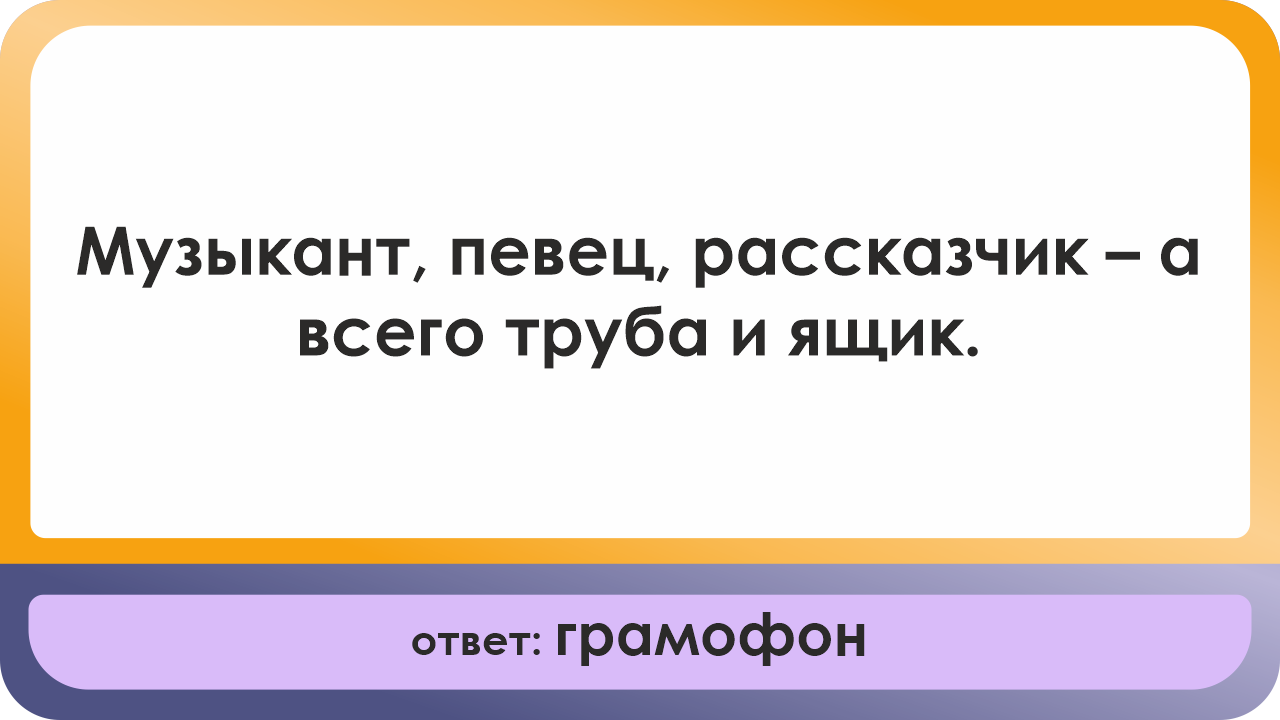
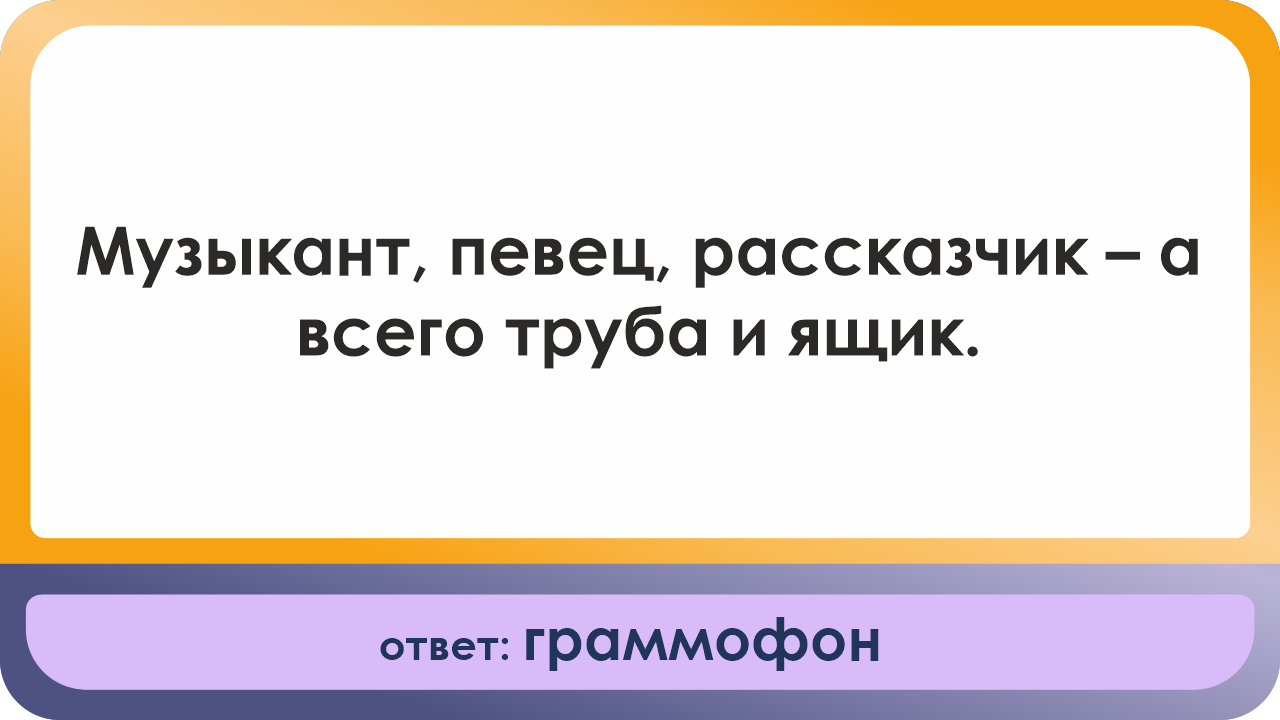
fix

Changed region(s): [[0.2812, 0.8556, 0.6875, 0.9472]]

diff --git a/challenge/ratingApp.py b/challenge/ratingApp.py
@@ -30,7 +30,7 @@ class RatingApp(object):
         sizePolicy.setHeightForWidth(self.label.sizePolicy().hasHeightForWidth())
         self.label.setSizePolicy(sizePolicy)
         self.label.setMinimumSize(QtCore.QSize(0, 160))
-        self.label.setMaximumSize(QtCore.QSize(16777215, 160))
+        self.label.setMaximumSize(QtCore.QSize(16777215, 16777215))
         font = QtGui.QFont()
         font.setPointSize(60)
         font.setBold(True)
@@ -39,6 +39,7 @@ class RatingApp(object):
         self.label.setAlignment(QtCore.Qt.AlignCenter)
         self.label.setObjectName("label")
         self.label.setStyleSheet("color: #0F1108;")
+        self.label.setPixmap(QtGui.QPixmap("img/name.png"))
         self.verticalLayout.addWidget(self.label)
         self.horizontalLayout = QtWidgets.QHBoxLayout()
         self.horizontalLayout.setObjectName("horizontalLayout")
@@ -91,6 +92,9 @@ class RatingApp(object):
         self.MainWindow.showFullScreen()
 
     def add_rating(self):
+        self.label.setPixmap(QtGui.QPixmap())
+        self.label.setMinimumSize(QtCore.QSize(0, 0))
+        self.label.setMaximumSize(QtCore.QSize(0, 0))
         self.horizontalLayout.removeWidget(self.action_widget)
         self.action_widget = QtWidgets.QFrame()
         self.action_widget.setMinimumSize(QtCore.QSize(800, 800))
@@ -117,7 +121,7 @@ class RatingApp(object):
         self.action_widget.setFrameShadow(QtWidgets.QFrame.Raised)
         self.action_widget.setObjectName("action_widget")
         self.verticalLayout_4 = QtWidgets.QVBoxLayout(self.action_widget)
-        self.verticalLayout_4.setContentsMargins(0, 0, 0, -1)
+        self.verticalLayout_4.setContentsMargins(0, 0, 0, 0)
         self.verticalLayout_4.setSpacing(0)
         self.verticalLayout_4.setObjectName("verticalLayout_4")
         spacerItem = QtWidgets.QSpacerItem(20, 40, QtWidgets.QSizePolicy.Minimum, QtWidgets.QSizePolicy.Expanding)
@@ -171,7 +175,6 @@ f"    background-color: {team_color};\n"
     def retranslateUi(self, Form):
         _translate = QtCore.QCoreApplication.translate
         Form.setWindowTitle(_translate("Form", "Form"))
-        self.label.setText(_translate("Form", "Интеллектуальная игра"))
         self.action_widget.setText(_translate("Form", "Начать игру"))
 
 

diff --git a/quiz/finishPageWidget.py b/quiz/finishPageWidget.py
@@ -27,7 +27,7 @@ class FinishPageWidget(QtWidgets.QWidget):
         sizePolicy.setHeightForWidth(self.label.sizePolicy().hasHeightForWidth())
         self.label.setSizePolicy(sizePolicy)
         self.label.setMinimumSize(QtCore.QSize(0, 160))
-        self.label.setMaximumSize(QtCore.QSize(16777215, 160))
+        self.label.setMaximumSize(QtCore.QSize(16777215, 16777215))
         font = QtGui.QFont()
         font.setPointSize(60)
         font.setBold(True)
@@ -36,6 +36,8 @@ class FinishPageWidget(QtWidgets.QWidget):
         self.label.setAlignment(QtCore.Qt.AlignCenter)
         self.label.setObjectName("label")
         self.label.setStyleSheet("color: #0F1108")
+        self.label.setPixmap(QtGui.QPixmap("img/name.png"))
+        #self.label.setScaledContents(True)
         self.verticalLayout.addWidget(self.label)
         self.horizontalLayout = QtWidgets.QHBoxLayout()
         self.horizontalLayout.setObjectName("horizontalLayout")
@@ -169,7 +171,6 @@ f"    background-color: {team_color};\n"
     def retranslateUi(self, Form):
         _translate = QtCore.QCoreApplication.translate
         Form.setWindowTitle(_translate("Form", "Form"))
-        self.label.setText(_translate("Form", "Итоговый рейтинг команд"))
         self.pushButton.setText(_translate("Form", "Показать рейтинг команд"))
 
 

diff --git a/quiz/jsonWriter.py b/quiz/jsonWriter.py
@@ -161,7 +161,7 @@ def write():
     data['questions'].append({
         'id': 32,
         'question': 'Сколько кошек можно поместить в пустую коробку объемом три литра? ',
-        'answer': ['1', 'одну', 'одна', 'одну кошку', '1 кошку', 'одна кошка'],
+        'answer': ['1', 'одну', 'одна', 'одну кошку', '1 кошку', 'одна кошка', '1 кошка'],
         'type': 'open'})
     data['questions'].append({
         'id': 33,
@@ -173,7 +173,7 @@ def write():
     data['questions'].append({
         'id': 34,
         'question': 'Музыкант, певец, рассказчик – а всего труба и ящик.',
-        'answer': ['грамофон'],
+        'answer': ['грамофон', 'граммофон'],
         'type': 'open'})
     data['questions'].append({
         'id': 35,
@@ -233,7 +233,7 @@ def write():
     data['questions'].append({
         'id': 46,
         'question': 'Что люди не могут делать во сне?',
-        'answer': ['чихать', 'чихнуть'],
+        'answer': ['чихать', 'чихнуть', 'не могут чихать', 'не могут чихнуть'],
         'type': 'open'})
     data['questions'].append({
         'id': 47,

diff --git a/quiz/questionWidget.py b/quiz/questionWidget.py
@@ -23,8 +23,6 @@ class QuestionWidget(QtWidgets.QWidget):
         sizePolicy.setVerticalStretch(0)
         sizePolicy.setHeightForWidth(self.label.sizePolicy().hasHeightForWidth())
         self.label.setSizePolicy(sizePolicy)
-        self.label.setPixmap(QtGui.QPixmap("img/4.png"))
-        self.label.setScaledContents(True)
         self.label.setStyleSheet("QLabel{\n"
 "    background-color: #ffffff;\n"
 "    border-style: solid;\n"
